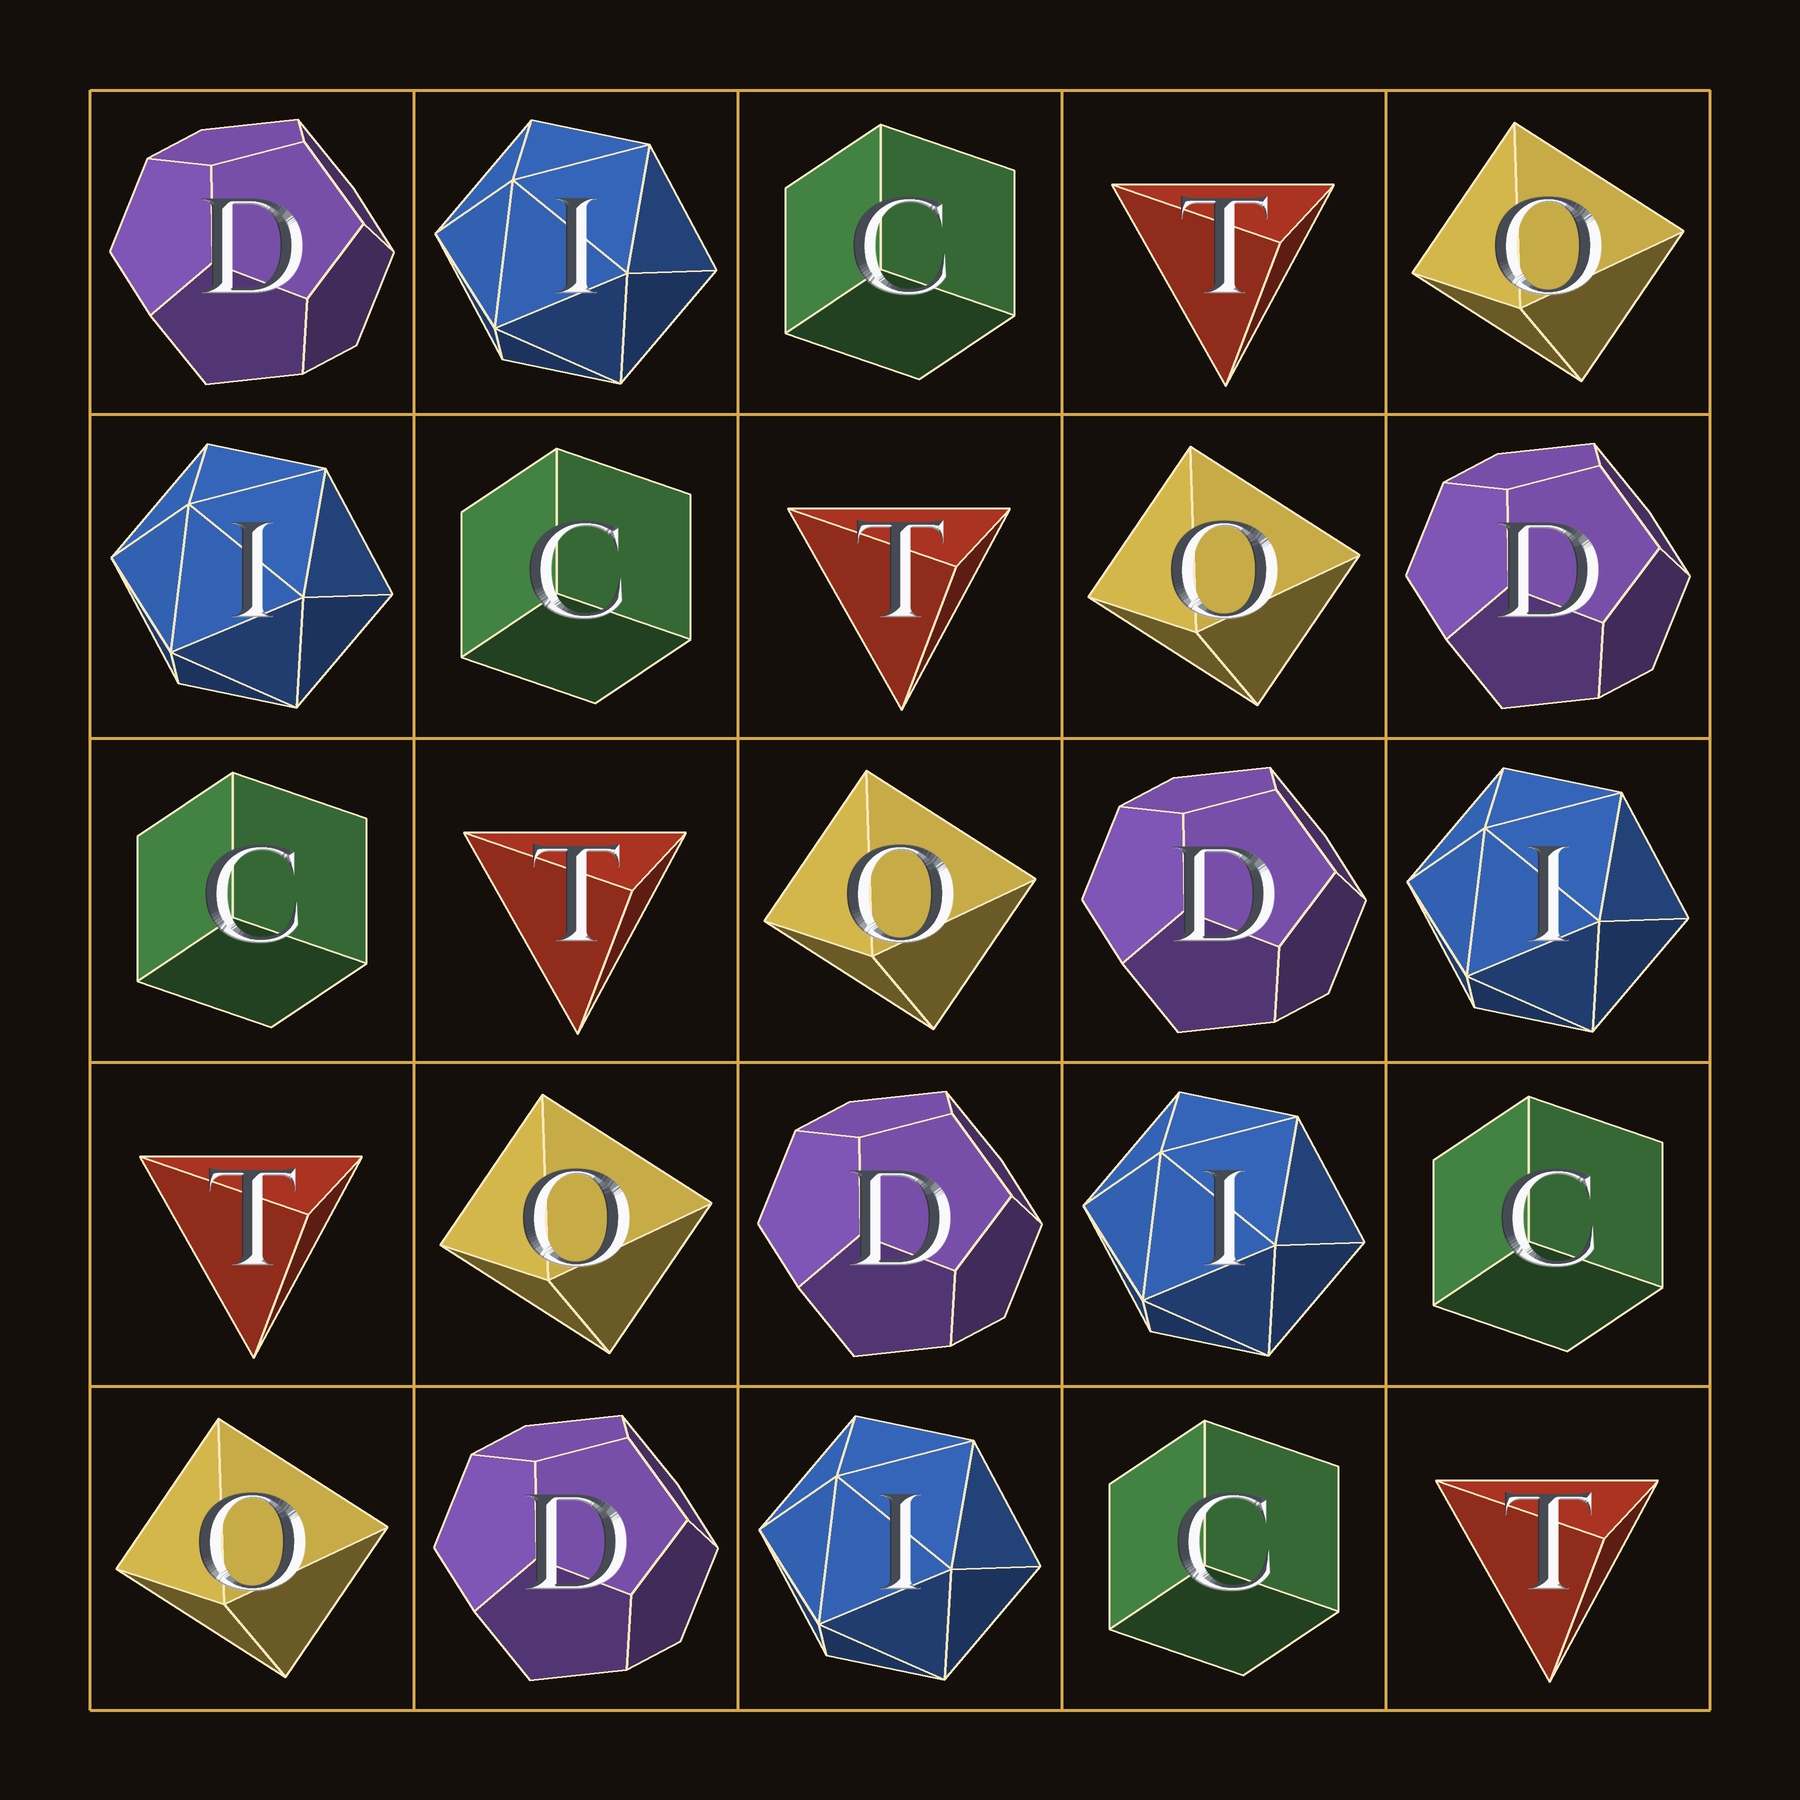
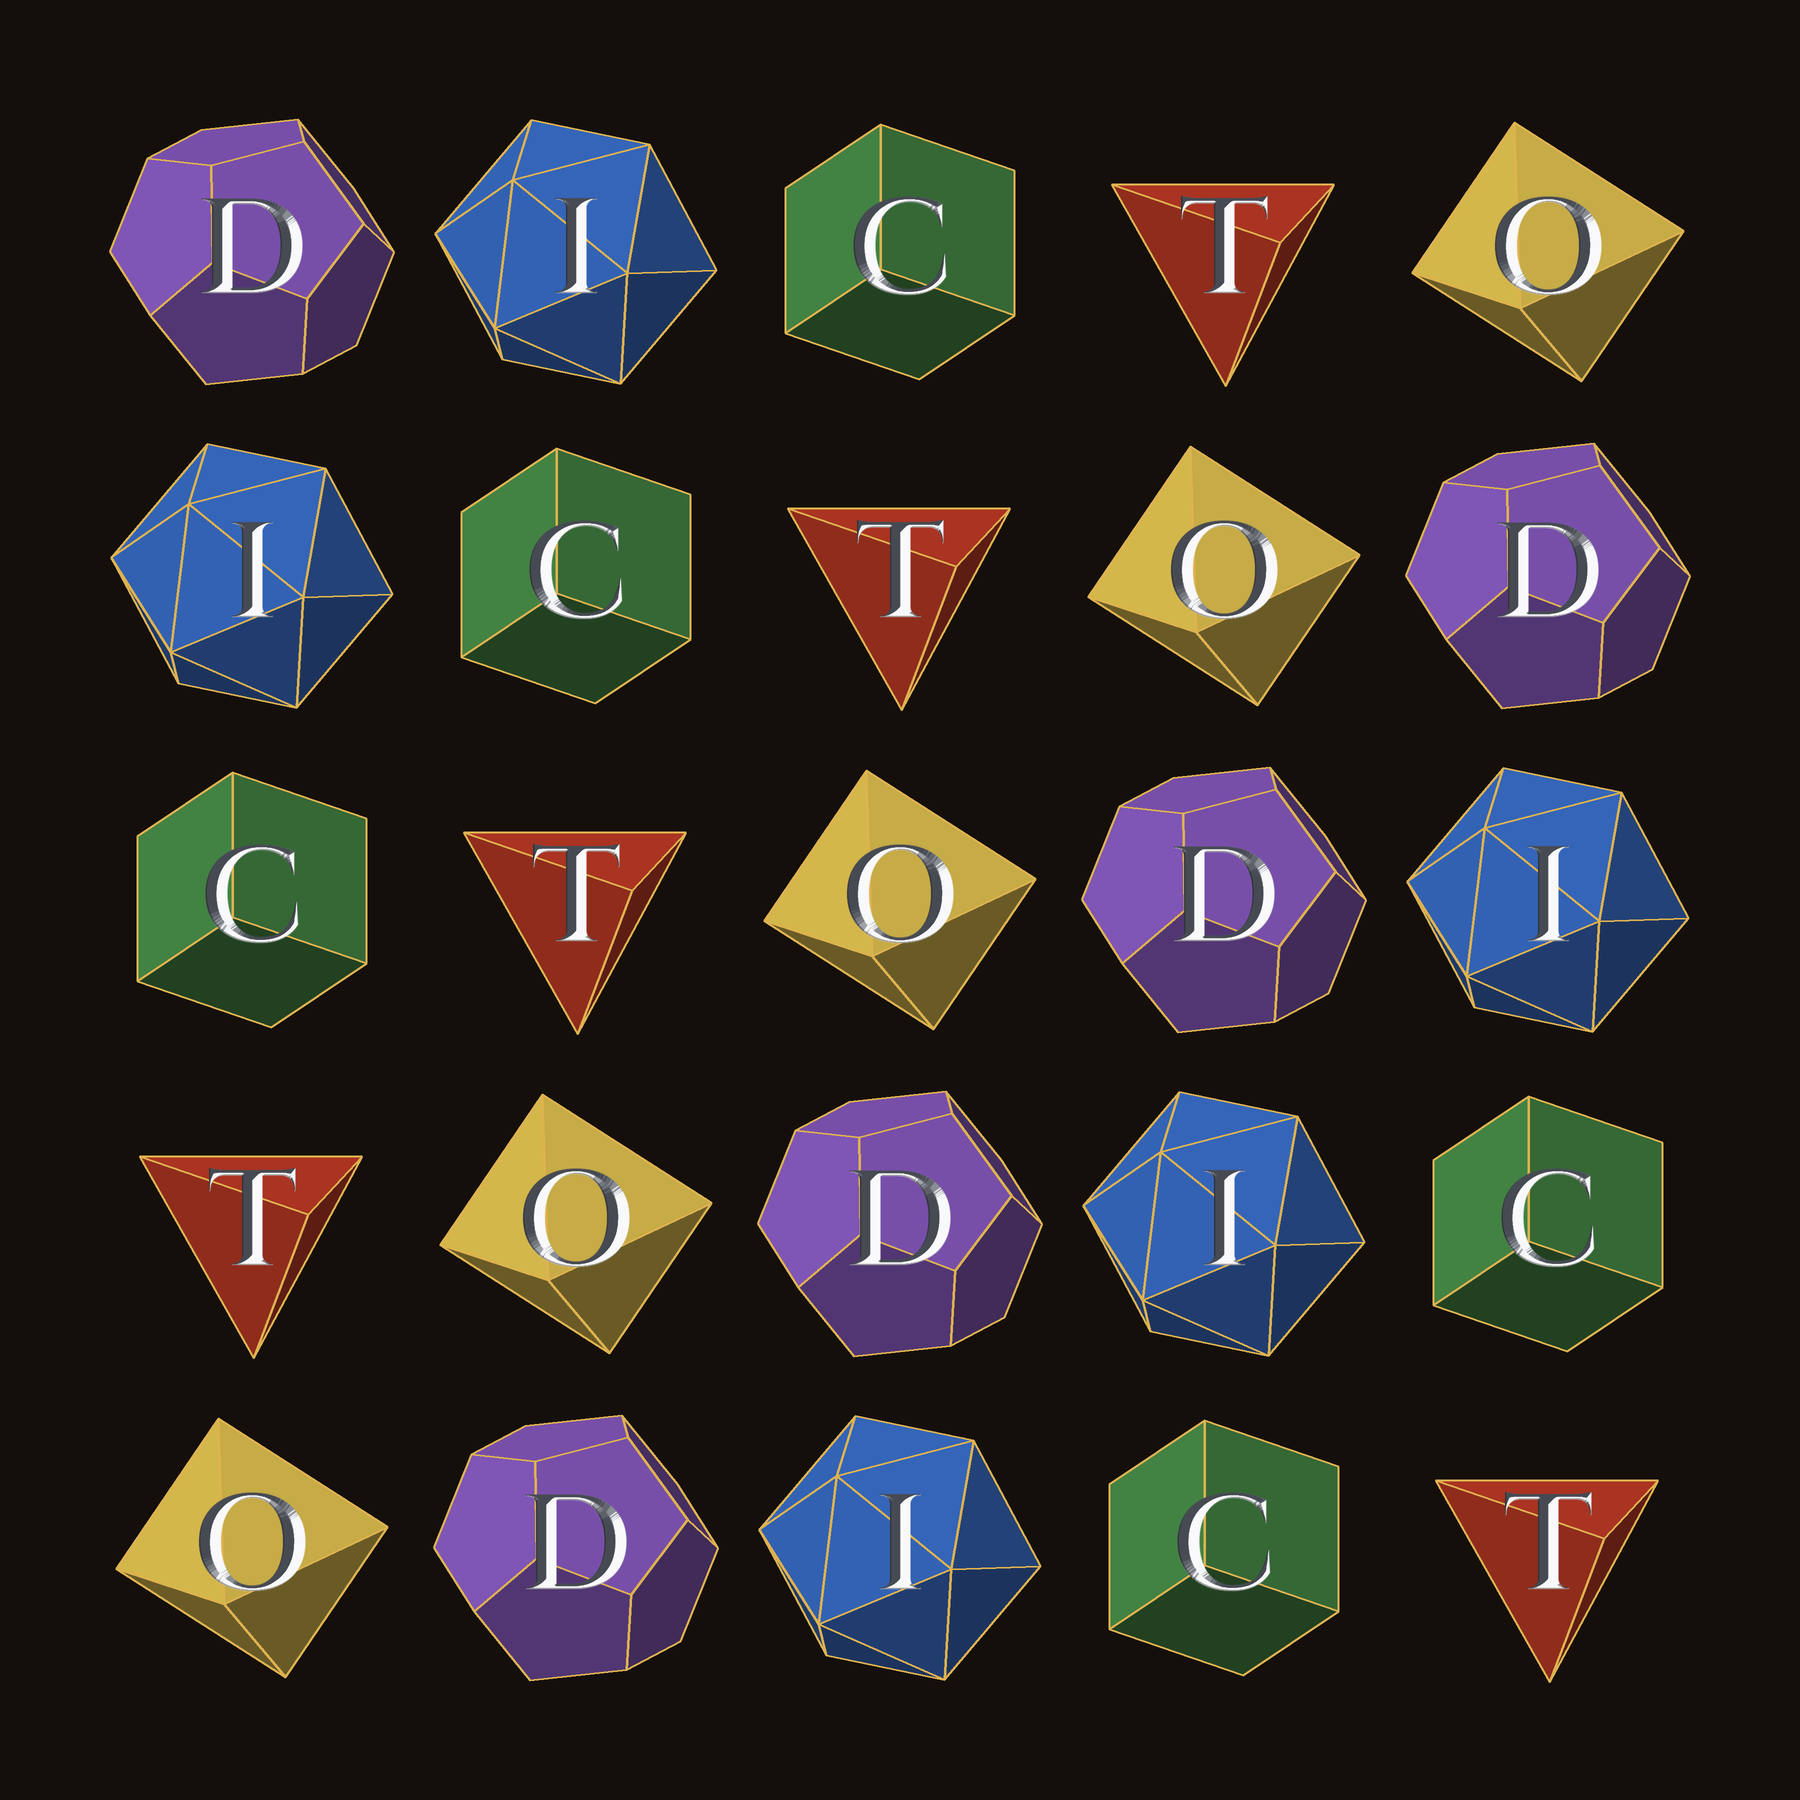
DICTO square: no grid squares (DICTO), gold edges; ivory-edge version kept for comparison

diff --git a/studies/2026-10-22-dicto-square/dicto_square.py b/studies/2026-10-22-dicto-square/dicto_square.py
@@ -66,7 +66,8 @@ B=np.array([[x,y,z] for x in (-2.5,2.5) for y in (-2.5,2.5) for z in (-0.5,0.5)]
 sc=0.9*W/max(np.ptp(B[:,0]),np.ptp(B[:,1])); ox=W/2-sc*(B[:,0].max()+B[:,0].min())/2; oy=W/2+sc*(B[:,1].max()+B[:,1].min())/2
 P=lambda x,y,z: (lambda v:(ox+v[0]*sc, oy-v[1]*sc))(np.array([x,y,z])@view.T)
 import os
-GRID=os.environ.get('GRID','1')=='1'   # grid squares on or off
+GRID=os.environ.get('GRID','0')=='1'   # grid squares off by default (DICTO: better on any colour underneath)
+EDGE={'ivory':(250,232,190),'gold':(222,178,80)}[os.environ.get('EDGE','gold')]
 for t in (range(6) if GRID else []):
     d.line([P(t-2.5,-2.5,-0.5),P(t-2.5,2.5,-0.5)],fill=GOLD,width=3*SS); d.line([P(-2.5,t-2.5,-0.5),P(2.5,t-2.5,-0.5)],fill=GOLD,width=3*SS)
 items=[]
@@ -88,7 +89,7 @@ for _,k,Vv,F in sorted(items,key=lambda t:t[0]):
         b=0.45+0.55*max(0,n@light)
         col=tuple(int(c*b+GROUND[m]*(1-b)*0.2) for m,c in enumerate(TONE[k]))
         pts=[(ox+Vv[q,0]*sc, oy-Vv[q,1]*sc) for q in idx]
-        d.polygon(pts,fill=col); d.line(pts+[pts[0]],fill=(250,232,190),width=2*SS)
+        d.polygon(pts,fill=col); d.line(pts+[pts[0]],fill=EDGE,width=2*SS)
 # Roman (Trajan-style) initials V-cut into each form, the groove gilded with platinum leaf:
 # the groove depth is the distance to the letter's edge, so the two walls meet in a ridge-free V along the stroke's middle;
 # light from the upper left lights one wall and leaves the other in shadow.
@@ -115,4 +116,4 @@ for i in range(5):
     for j in range(5):
         p=np.array([j-2,2-i,0.0])@view.T; tile,mask,box=CARVE[M[i][j]]
         img.paste(tile,(int(ox+p[0]*sc-box/2),int(oy-p[1]*sc-box/2)),mask)
-img=img.resize((N,N),Image.LANCZOS); img.save('dicto-square.png' if GRID else 'dicto-square-nogrid.png'); print('ok')
+img=img.resize((N,N),Image.LANCZOS); img.save('dicto-square%s%s.png'%('-grid' if GRID else '', '' if EDGE==(222,178,80) else '-ivory')); print('ok')
